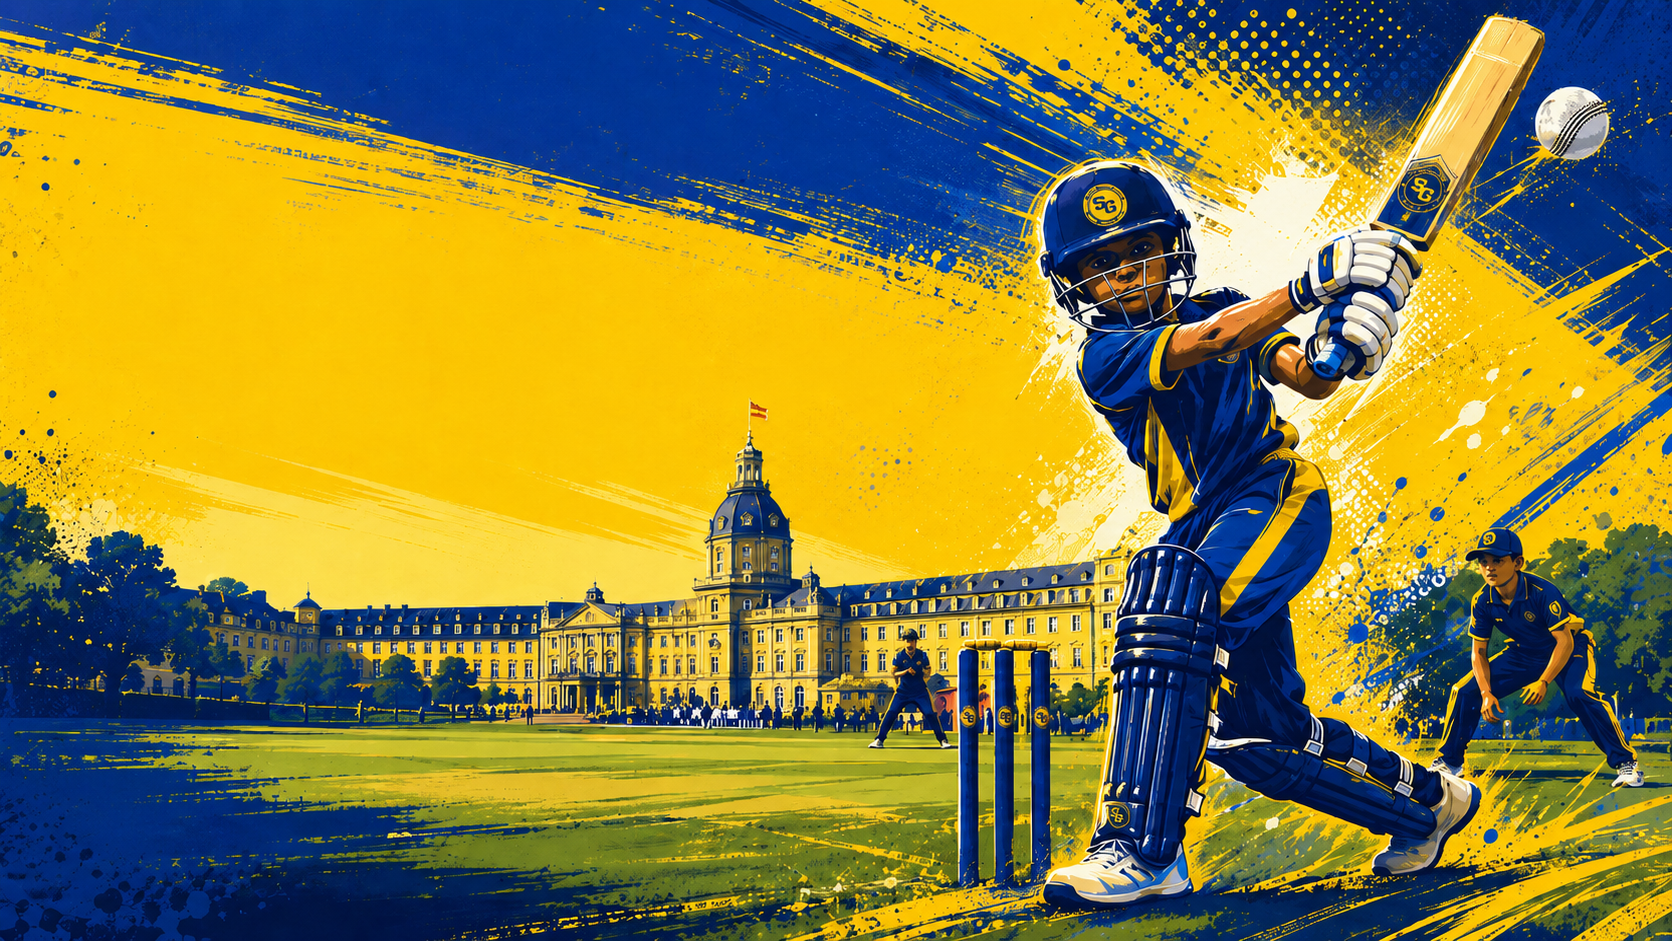
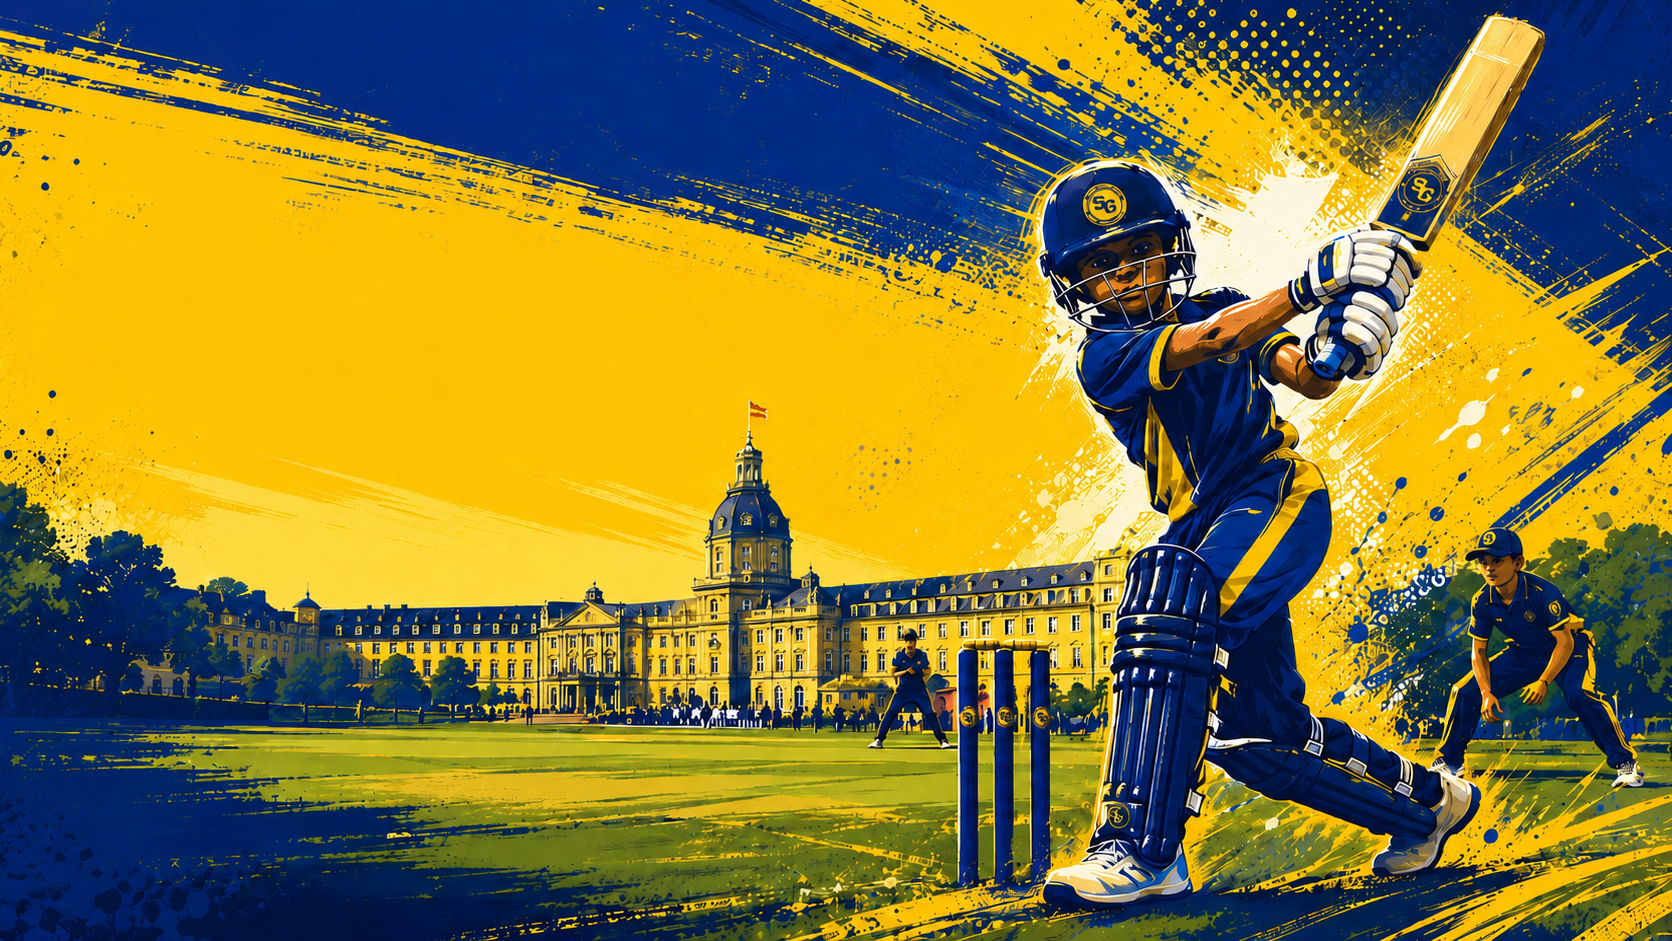
changed ball position and text updated

diff --git a/index.html b/index.html
@@ -101,7 +101,7 @@
       overflow: hidden;
       background:
         linear-gradient(rgba(0, 45, 114, 0.38), rgba(0, 45, 114, 0.38)),
-        url("images/hero-karlsruhe-cricket.png") center center / cover no-repeat;
+        url("images/hero-karlsruhe-cricket.png") center center/ cover no-repeat;
     }
 
     .hero-inner {
@@ -146,49 +146,67 @@
     }
 
     .hero-card {
-      background:
-        linear-gradient(rgba(120, 0, 0, 0.55), rgba(120, 0, 0, 0.45)),
-        url("images/cricket-ball.png");
-      background-size: cover;
-      background-position: center;
-      width: 340px;
-      height: 340px;
-      min-width: 340px;
-      max-width: 340px;
-      aspect-ratio: 1 / 1;
-      border-radius: 50%;
-      padding: 42px;
-      box-sizing: border-box;
-      box-shadow: var(--shadow);
-      border: 1px solid rgba(255,255,255,0.35);
-      display: flex;
-      flex-direction: column;
-      justify-content: center;
-      overflow: hidden;
-      backdrop-filter: blur(4px);
-      animation: ballFloat 4s ease-in-out infinite;
-    }
+  background:
+    linear-gradient(rgba(120, 0, 0, 0.55), rgba(120, 0, 0, 0.45)),
+    url("images/cricket-ball.png");
+  background-size: cover;
+  background-position: center;
+  width: 260px;
+  height: 260px;
+  min-width: 260px;
+  max-width: 260px;
+  border-radius: 50%;
+  padding: 30px;
+  box-sizing: border-box;
+  box-shadow: var(--shadow);
+  border: 1px solid rgba(255,255,255,0.35);
+  display: flex;
+  flex-direction: column;
+  justify-content: center;
+  overflow: hidden;
+  backdrop-filter: blur(4px);
+  animation: ballFloat 4s ease-in-out infinite;
+}
 
-    @keyframes ballFloat {
-      0% {
-        transform: rotate(1deg) translate(140px, 100px) scale(1);
-      }
-      50% {
-        transform: rotate(4deg) translate(145px, 92px) scale(1.02);
-      }
-      100% {
-        transform: rotate(1deg) translate(140px, 100px) scale(1);
-      }
+.hero-card h2 {
+  font-size: 18px;
+  margin: 0 0 12px;
+.hero-card li {
+    text-shadow: 0 2px 4px rgba(0,0,0,0.7);
+}
+}
+
+.hero-card ul {
+  font-size: 13px;
+  line-height: 1.3;
+  padding-left: 16px;
+}
+
+  @keyframes ballFloat {
+  0% {
+    transform: rotate(1deg) translate(260px, 135px) scale(1);
+  }
+  50% {
+    transform: rotate(3deg) translate(266px, 128px) scale(1.015);
+  }
+  100% {
+    transform: rotate(1deg) translate(260px, 135px) scale(1);
+  }
+
+
     }
 
     .hero-card h2 {
-      font-size: 20px;
+      font-size: 22px;
       line-height: 1.15;
       margin: 0 0 18px;
       text-align: center;
       color: white;
     }
 
+    .hero-card li {
+    font-size: 16px;
+    }
     .hero-card ul {
       margin: 0;
       padding-left: 18px;
@@ -517,7 +535,9 @@
       nav {
         justify-content: flex-start;
       }
-
+      .hero {
+      background-position: 70% top;
+     }
       .hero-inner,
       .grid-3,
       .grid-2,
@@ -598,12 +618,12 @@
         </div>
 
         <div class="hero-card">
-          <h2>New players welcome</h2>
+          <h2>New players Welcome!</h2>
           <ul>
-            <li>No previous cricket experience needed</li>
-            <li>Youth cricket and family-friendly sessions</li>
-            <li>Beginner pathway from softball to hard-ball</li>
-            <li>Training, matches and community events</li>
+            <li>No experience needed</li>
+            <li>Family-friendly sessions</li>
+            <li>Softball to hardball pathway</li>
+            
           </ul>
         </div>
       </div>
@@ -631,7 +651,7 @@
           <h3>Our mission</h3>
           <p>
             Celebrate cricket and unite communities — from children trying the sport for the first time
-            to adults who want to train, play and support the game locally.
+            to youth and women who want to train, play and support the game locally.
           </p>
         </div>
       </div>